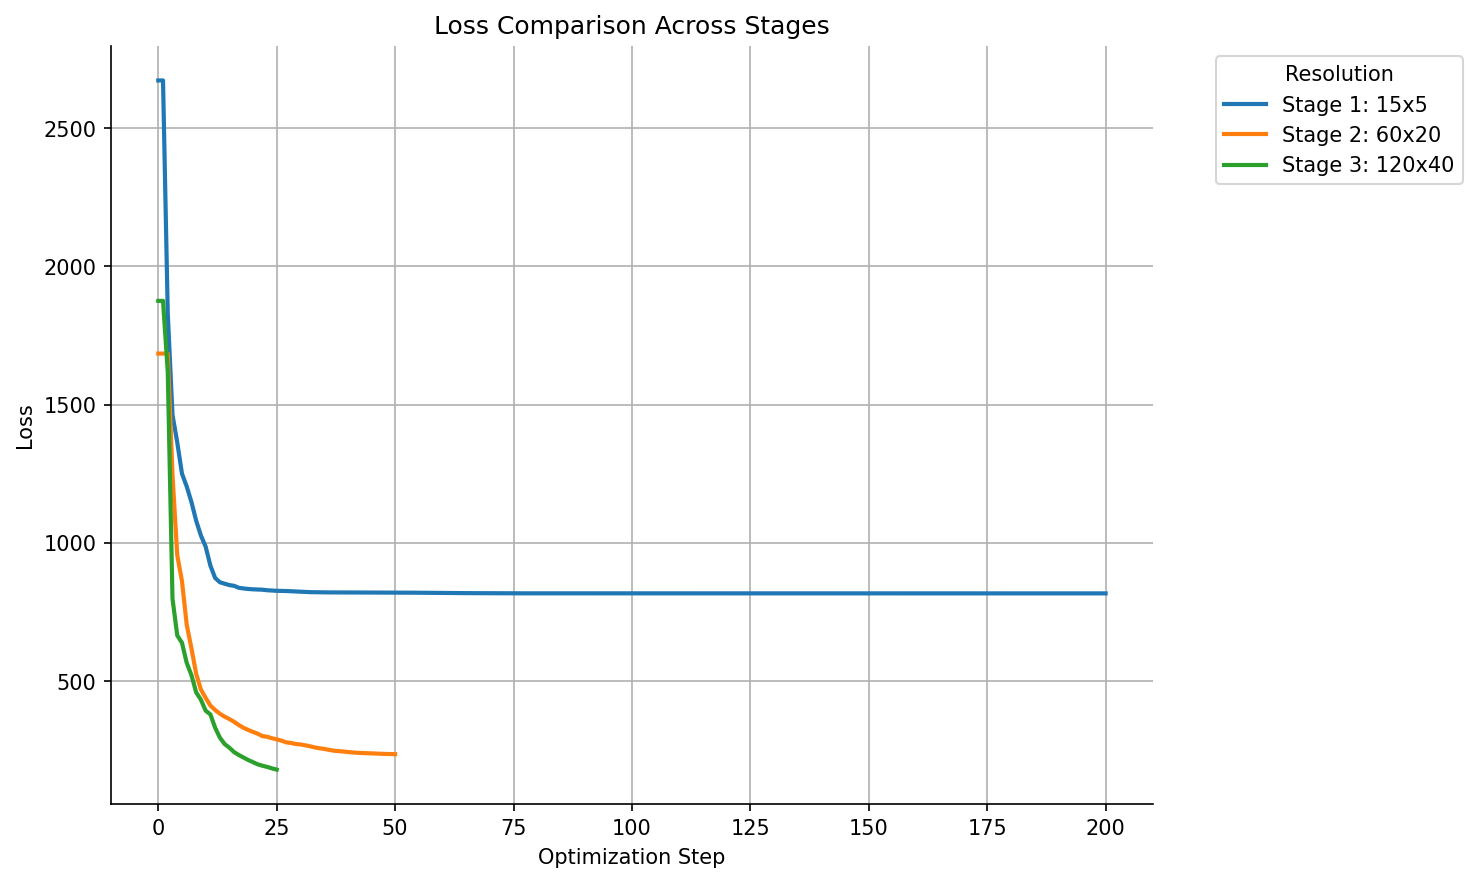
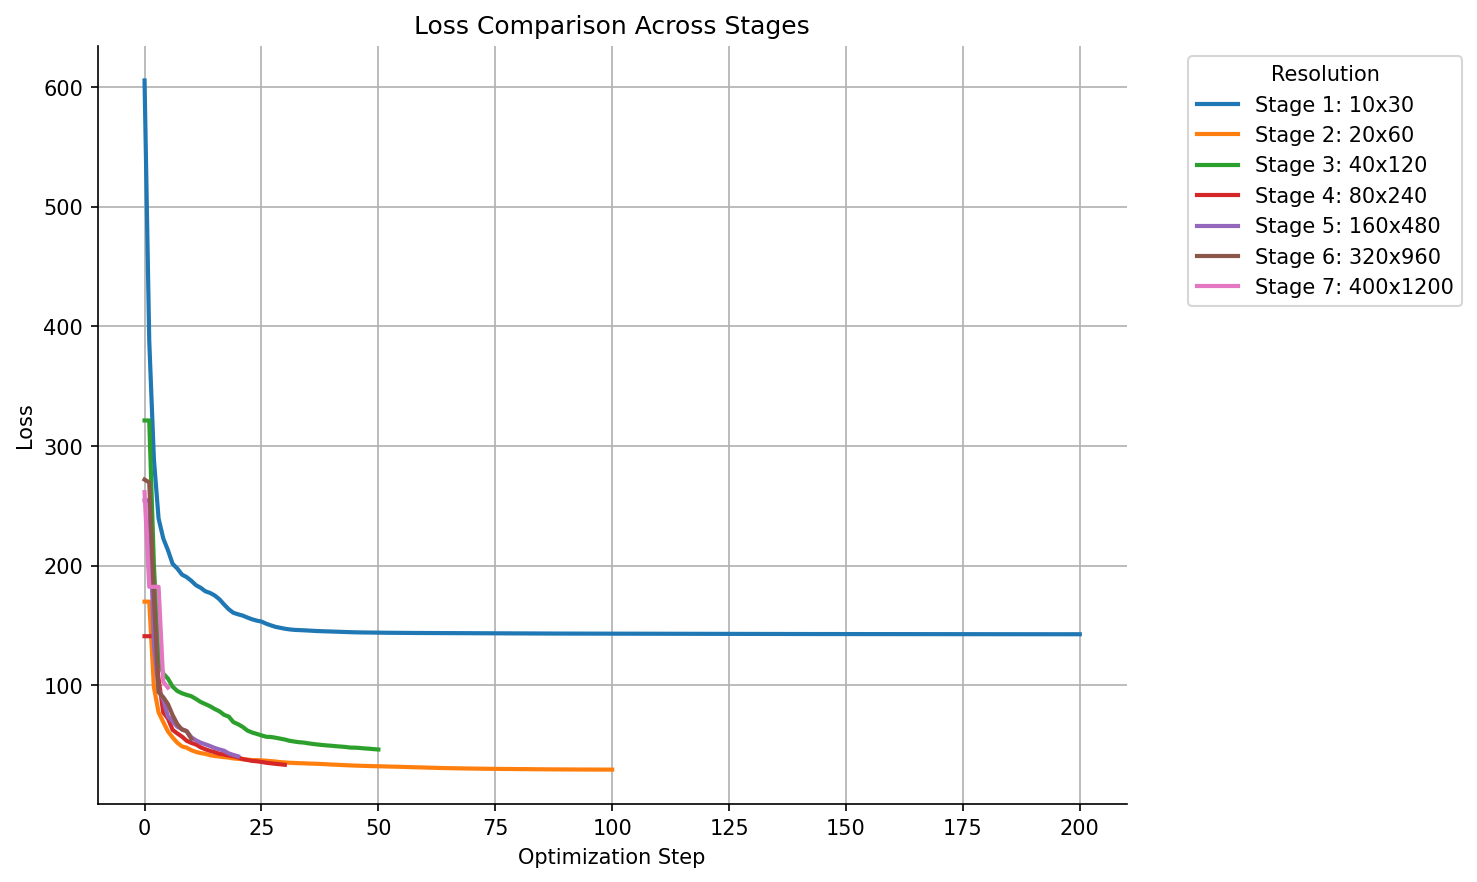
ran full adaptive train successfully and got shit results

diff --git a/script/run2.py b/script/run2.py
@@ -63,7 +63,7 @@ def main():
     
     try:
         # Create problem
-        problem = problems.multistory_building(width=5, height=15, interval=3)
+        problem = problems.multistory_building(width=5, height=1200, interval=400)
         max_iterations = 200
         
         print(f"Problem: {problem.name}")
@@ -73,23 +73,23 @@ def main():
         # Run all optimization methods
         print("\nStarting optimization...")
 
-        # args = topo_api.specified_task(problem)
-        # model = models.CNNModelDynamic(args=args)
-        # ds = train.train_lbfgs(model, max_iterations)
+        args = topo_api.specified_task(problem)
+        model = models.CNNModelDynamic(args=args)
+        ds_history = train.train_lbfgs(model, max_iterations)
 
-        resolutions = [
-            (30, 10),
-            (60, 20),
-            (120, 40),
-            (240, 80),
-            (480, 160),
-            (960, 320),
-            (1200, 400),
-            ]
-        max_iter = [200, 100, 50, 30, 20, 10, 5]  # fewer iterations at each upsample stage
+        # resolutions = [
+        #     (30, 10),
+        #     (60, 20),
+        #     (120, 40),
+        #     (240, 80),
+        #     (480, 160),
+        #     (960, 320),
+        #     (1200, 400),
+        #     ]
+        # max_iter = [200, 100, 50, 30, 20, 10, 5]  # fewer iterations at each upsample stage
 
         # ds_history = train.adaptive_train_lbfgs(problem, [(5,15),(20,60),(30,120)], max_iterations)
-        ds_history = train.adaptive_train_lbfgs(problem, resolutions, max_iter)
+        # ds_history = train.adaptive_train_lbfgs(problem, resolutions, max_iter)
         if not isinstance(ds_history, list):
             ds_history = [ds_history]
             

diff --git a/neural_structural_optimization/models.py b/neural_structural_optimization/models.py
@@ -192,9 +192,10 @@ class CNNModelDynamic(Model):
     )
 
     conv_filters = conv_filter_template[-len(resizes):]
-    scale_factor = max_resizes / len(resizes)  # will be larger when fewer resizes
-    dense_channels = int(conv_filters[0] // 2 * scale_factor)
+    # dense_channels = max(conv_filter_template[min(len(resizes), len(conv_filter_template) - 1)] // 4, 1)
     # dense_channels = conv_filters[0] // 2
+
+    dense_channels = 32
 
     self.resizes = resizes # (1, 2, 2, 2, 1)
     self.base_shape = base_shape

diff --git a/neural_structural_optimization/train.py b/neural_structural_optimization/train.py
@@ -174,8 +174,9 @@ def train_lbfgs(
 
   x0 = _get_variables(tvars).astype(np.float64)
   # rely upon the step limit instead of error tolerance for finishing.
+  # cancel that, 
   _, _, info = scipy.optimize.fmin_l_bfgs_b(
-      value_and_grad, x0, maxfun=max_iterations, factr=1, pgtol=1e-14, **kwargs
+      value_and_grad, x0, maxfun=max_iterations, factr=1e7, pgtol=1e-14, **kwargs
   )
   logging.info(info)
 
